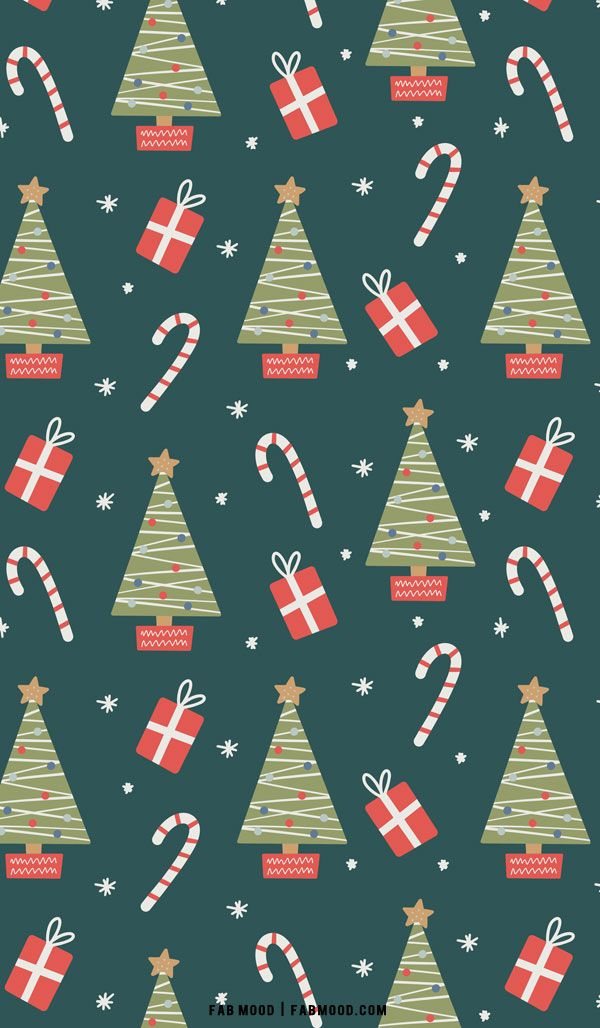
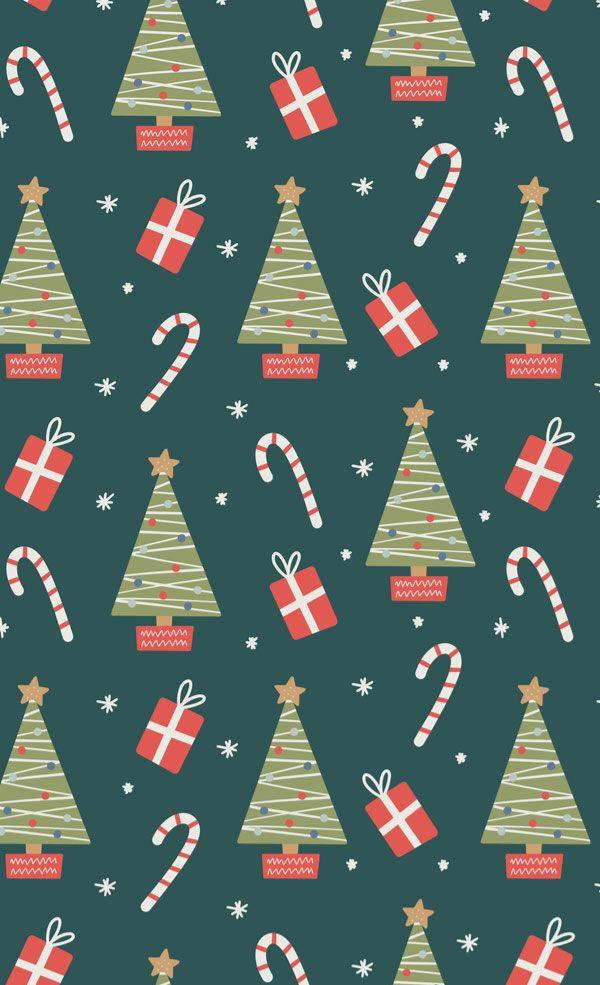
background image adjustment

diff --git a/src/App.css b/src/App.css
@@ -15,9 +15,14 @@ Silver: #C0C0C0 */
 
 html, body {
   font-family: -apple-system, monospace, system-ui, BlinkMacSystemFont, 'Segoe UI', Roboto, Oxygen, Ubuntu, Cantarell, 'Open Sans', 'Helvetica Neue', sans-serif;
-   background-image: url("./assets/images/background_cropped.jpg");
+   background-image: url("./assets/images/background.jpg");
   width: 100%;
 }
+
+p {
+  color: #000;
+}
+
 
 .app {
   min-height: 100vh;
@@ -49,7 +54,6 @@ html, body {
   justify-content: center;
   text-align: center;
   color: black;
-  padding: 1rem 0;
   position: sticky;
 }
 
@@ -98,6 +102,7 @@ p {
 .icon-container {  
    justify-content: center;
     background-color: beige;
+    padding-top: 1rem;
 }
 
 .fa_icon {
